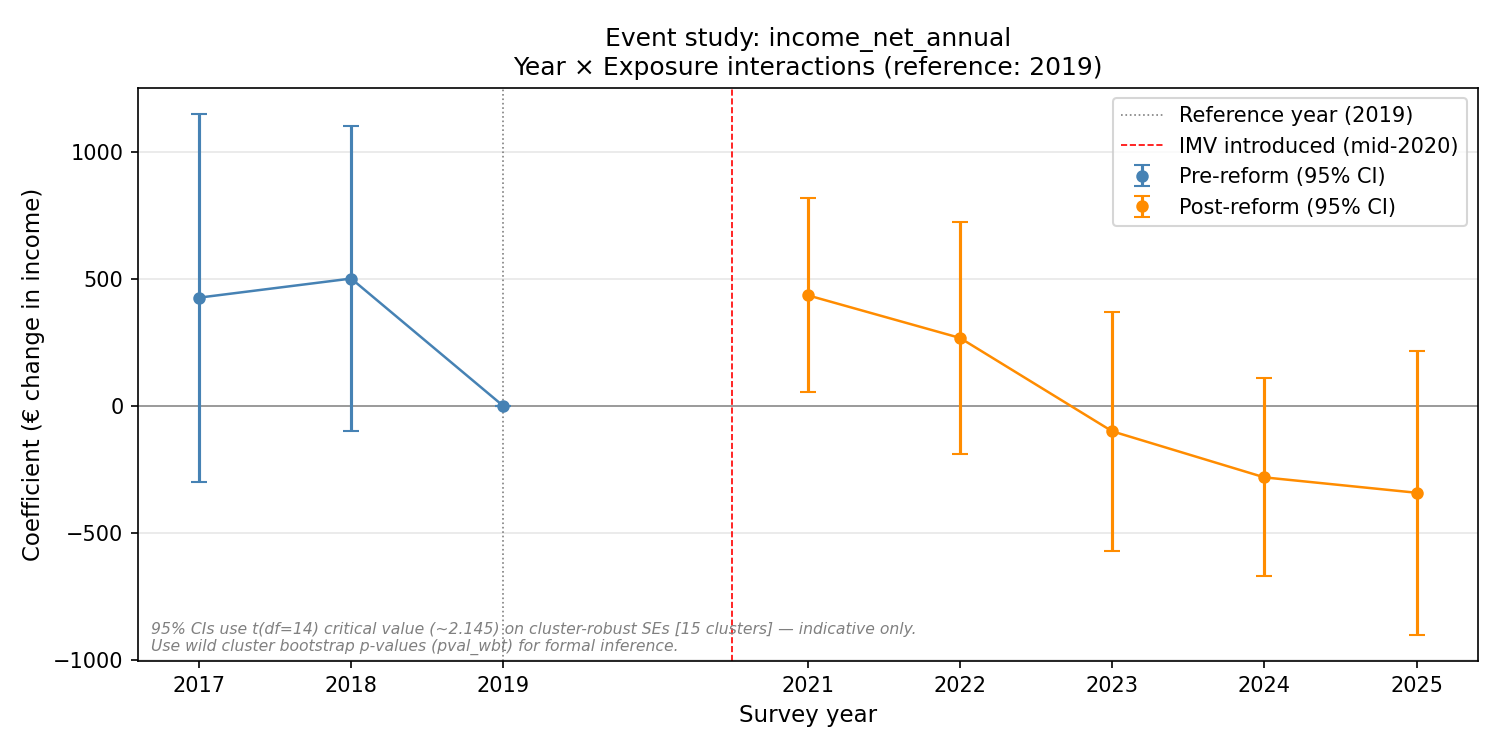
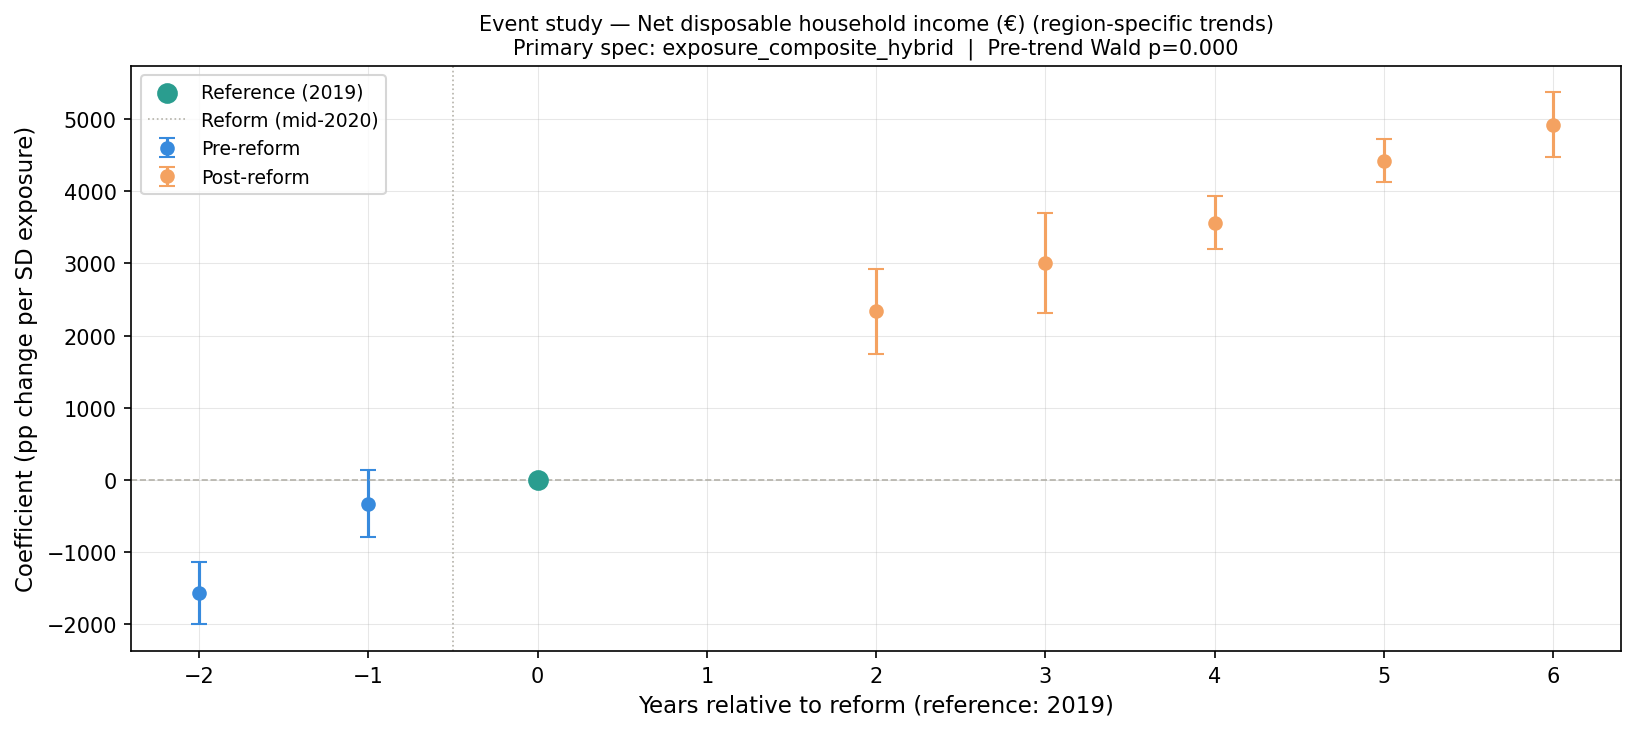
cleaning

diff --git a/src/binned_did.py b/src/binned_did.py
@@ -75,12 +75,6 @@ logger = logging.getLogger(__name__)
 _PRE_YEARS: list[int] = YEARS          # [2017, 2018, 2019]
 _N_LOW:     int       = 6              # regions in low tercile
 _N_MEDIUM:  int       = 5              # regions in medium tercile
-# high tercile = remainder (6 regions with 15 total)
-
-
-# =============================================================================
-# DYNAMIC TERCILE ASSIGNMENT
-# =============================================================================
 
 def _compute_dynamic_terciles(
     panel: pl.DataFrame,
@@ -187,13 +181,11 @@ def build_binned_did_data(
         .alias("post")
     )
 
-    # Compute tercile assignment dynamically for this spec
     terciles       = _compute_dynamic_terciles(did, exposure_spec)
     low_regions    = terciles["low"]
     medium_regions = terciles["medium"]
     high_regions   = terciles["high"]
 
-    # Log assignment so the output is traceable per spec
     low_names    = [REGION_NAMES.get(r, str(r)) for r in low_regions]
     medium_names = [REGION_NAMES.get(r, str(r)) for r in medium_regions]
     high_names   = [REGION_NAMES.get(r, str(r)) for r in high_regions]
@@ -244,11 +236,6 @@ def build_binned_did_data(
     )
     return did
 
-
-# =============================================================================
-# ESTIMATE ONE OUTCOME
-# =============================================================================
-
 def run_binned_did_spec(
     df: pd.DataFrame,
     outcome: str,
@@ -281,8 +268,6 @@ def run_binned_did_spec(
     if len(df_clean) == 0:
         raise ValueError(f"No complete cases for outcome={outcome}")
 
-    # tercile_medium and tercile_high intentionally excluded —
-    # they are time-invariant and absorbed by region FEs.
     ctrl_str = (" + " + " + ".join(controls)) if controls else ""
     formula  = f"{outcome} ~ post_x_medium + post_x_high{ctrl_str} | drgn2 + year"
 
@@ -292,7 +277,6 @@ def run_binned_did_spec(
         vcov={"CRV1": "drgn2"},
     )
 
-    # ── Coefficients ──────────────────────────────────────────────────────────
     coef_M = float(fit.coef()["post_x_medium"])
     se_M   = float(fit.se()["post_x_medium"])
     pval_M = float(fit.pvalue()["post_x_medium"])
@@ -304,7 +288,6 @@ def run_binned_did_spec(
     n_clusters = int(df_clean["drgn2"].nunique())
     t_crit     = float(t_dist.ppf(0.975, df=n_clusters - 1))
 
-    # ── WCB — seeds passed from caller, unique per spec x outcome ─────────────
     p_wbt_M = np.nan
     try:
         boot_M  = fit.wildboottest(param="post_x_medium", reps=9999, seed=seed_M)
@@ -323,7 +306,6 @@ def run_binned_did_spec(
     except Exception as e:
         logger.warning("    WCB failed %s x high: %s", outcome, e)
 
-    # ── Linearity test H0: beta_H = 2 x beta_M ───────────────────────────────
     lin_stat, lin_p, linearity_ratio = np.nan, np.nan, np.nan
     try:
         coef_names = fit.coef().index.tolist()
@@ -369,11 +351,6 @@ def run_binned_did_spec(
         "n_obs":               len(df_clean),
         "n_clusters":          n_clusters,
     }
-
-
-# =============================================================================
-# RUN ALL SPECS x OUTCOMES
-# =============================================================================
 
 def run_binned_did(
     panel: pl.DataFrame,
@@ -427,7 +404,6 @@ def run_binned_did(
                 logger.warning("Outcome '%s' not in panel -- skipping", outcome)
                 continue
 
-            # Unique seed per spec x outcome combination
             seed_M = 42 + spec_idx * n_outcomes * 2 + outcome_idx * 2
             seed_H = seed_M + 1
 

diff --git a/run_binned_did.py b/run_binned_did.py
@@ -1,16 +1,5 @@
 """
 run_binned_did.py
-=================
-Runner for the binned DiD specification.
-
-Runs two post-period windows:
-  1. Baseline     : post = 2021-2025
-  2. COVID robust : post = 2022-2025
-
-For each window, estimates all EXPOSURE_SPECS x ANALYSIS_OUTCOMES (matdep, poverty).
-Tercile assignment is recomputed dynamically for each exposure spec.
-
-Reads from analysis_dataset.parquet (primary analysis dataset).
 """
 
 from __future__ import annotations
@@ -75,7 +64,6 @@ def print_results(df: pd.DataFrame, label: str) -> None:
 
             print(f"\n    Outcome: {row['outcome']}")
 
-            # Medium tercile
             if not pd.isna(row["pval_wbt_medium"]):
                 print(
                     f"    b_M (medium vs low): {row['coef_medium']:+.4f}  "
@@ -90,7 +78,6 @@ def print_results(df: pd.DataFrame, label: str) -> None:
                     f"SE={row['se_medium']:.4f}  WCB unavailable"
                 )
 
-            # High tercile
             if not pd.isna(row["pval_wbt_high"]):
                 print(
                     f"    b_H (high vs low)  : {row['coef_high']:+.4f}  "
@@ -105,7 +92,6 @@ def print_results(df: pd.DataFrame, label: str) -> None:
                     f"SE={row['se_high']:.4f}  WCB unavailable"
                 )
 
-            # Linearity diagnostic
             ratio_str = (
                 f"{row['linearity_ratio']:+.2f}"
                 if not pd.isna(row["linearity_ratio"]) else "n/a"

diff --git a/src/event_study.py b/src/event_study.py
@@ -303,8 +303,11 @@ def plot_event_study(
     ax.axvline(-0.5, color="#B4B2A9", linewidth=0.8, linestyle=":",
                label="Reform (mid-2020)")
 
-    outcome_label = {"matdep": "Severe material deprivation",
-                     "poverty": "At-risk-of-poverty"}.get(outcome, outcome)
+    outcome_label = {
+        "matdep":            "Severe material deprivation",
+        "poverty":           "At-risk-of-poverty",
+        "income_net_annual": "Net disposable household income (€)",
+    }.get(outcome, outcome)
     wald_p = df["pretrend_wald_p"].dropna().iloc[0] if "pretrend_wald_p" in df.columns else None
     wald_note = f"Pre-trend Wald p={wald_p:.3f}" if wald_p is not None else ""
 

diff --git a/src/constants.py b/src/constants.py
@@ -549,7 +549,7 @@ PLACEBO_YEARS: list[int] = [2017, 2018, 2019]
 PLACEBO_FAKE_TREATMENT_YEAR: int = 2019   # year coded as "post" in placebo
 PLACEBO_REFERENCE_YEAR: int = 2018        # omitted category
 
-ANALYSIS_OUTCOMES: list[str] = ["matdep", "poverty"]
+ANALYSIS_OUTCOMES: list[str] = ["poverty", "matdep", "income_net_annual"]
 APPENDIX_OUTCOMES: list[str] = ["income_net_annual"]
 
 # COVID robustness — two exclusion windows
